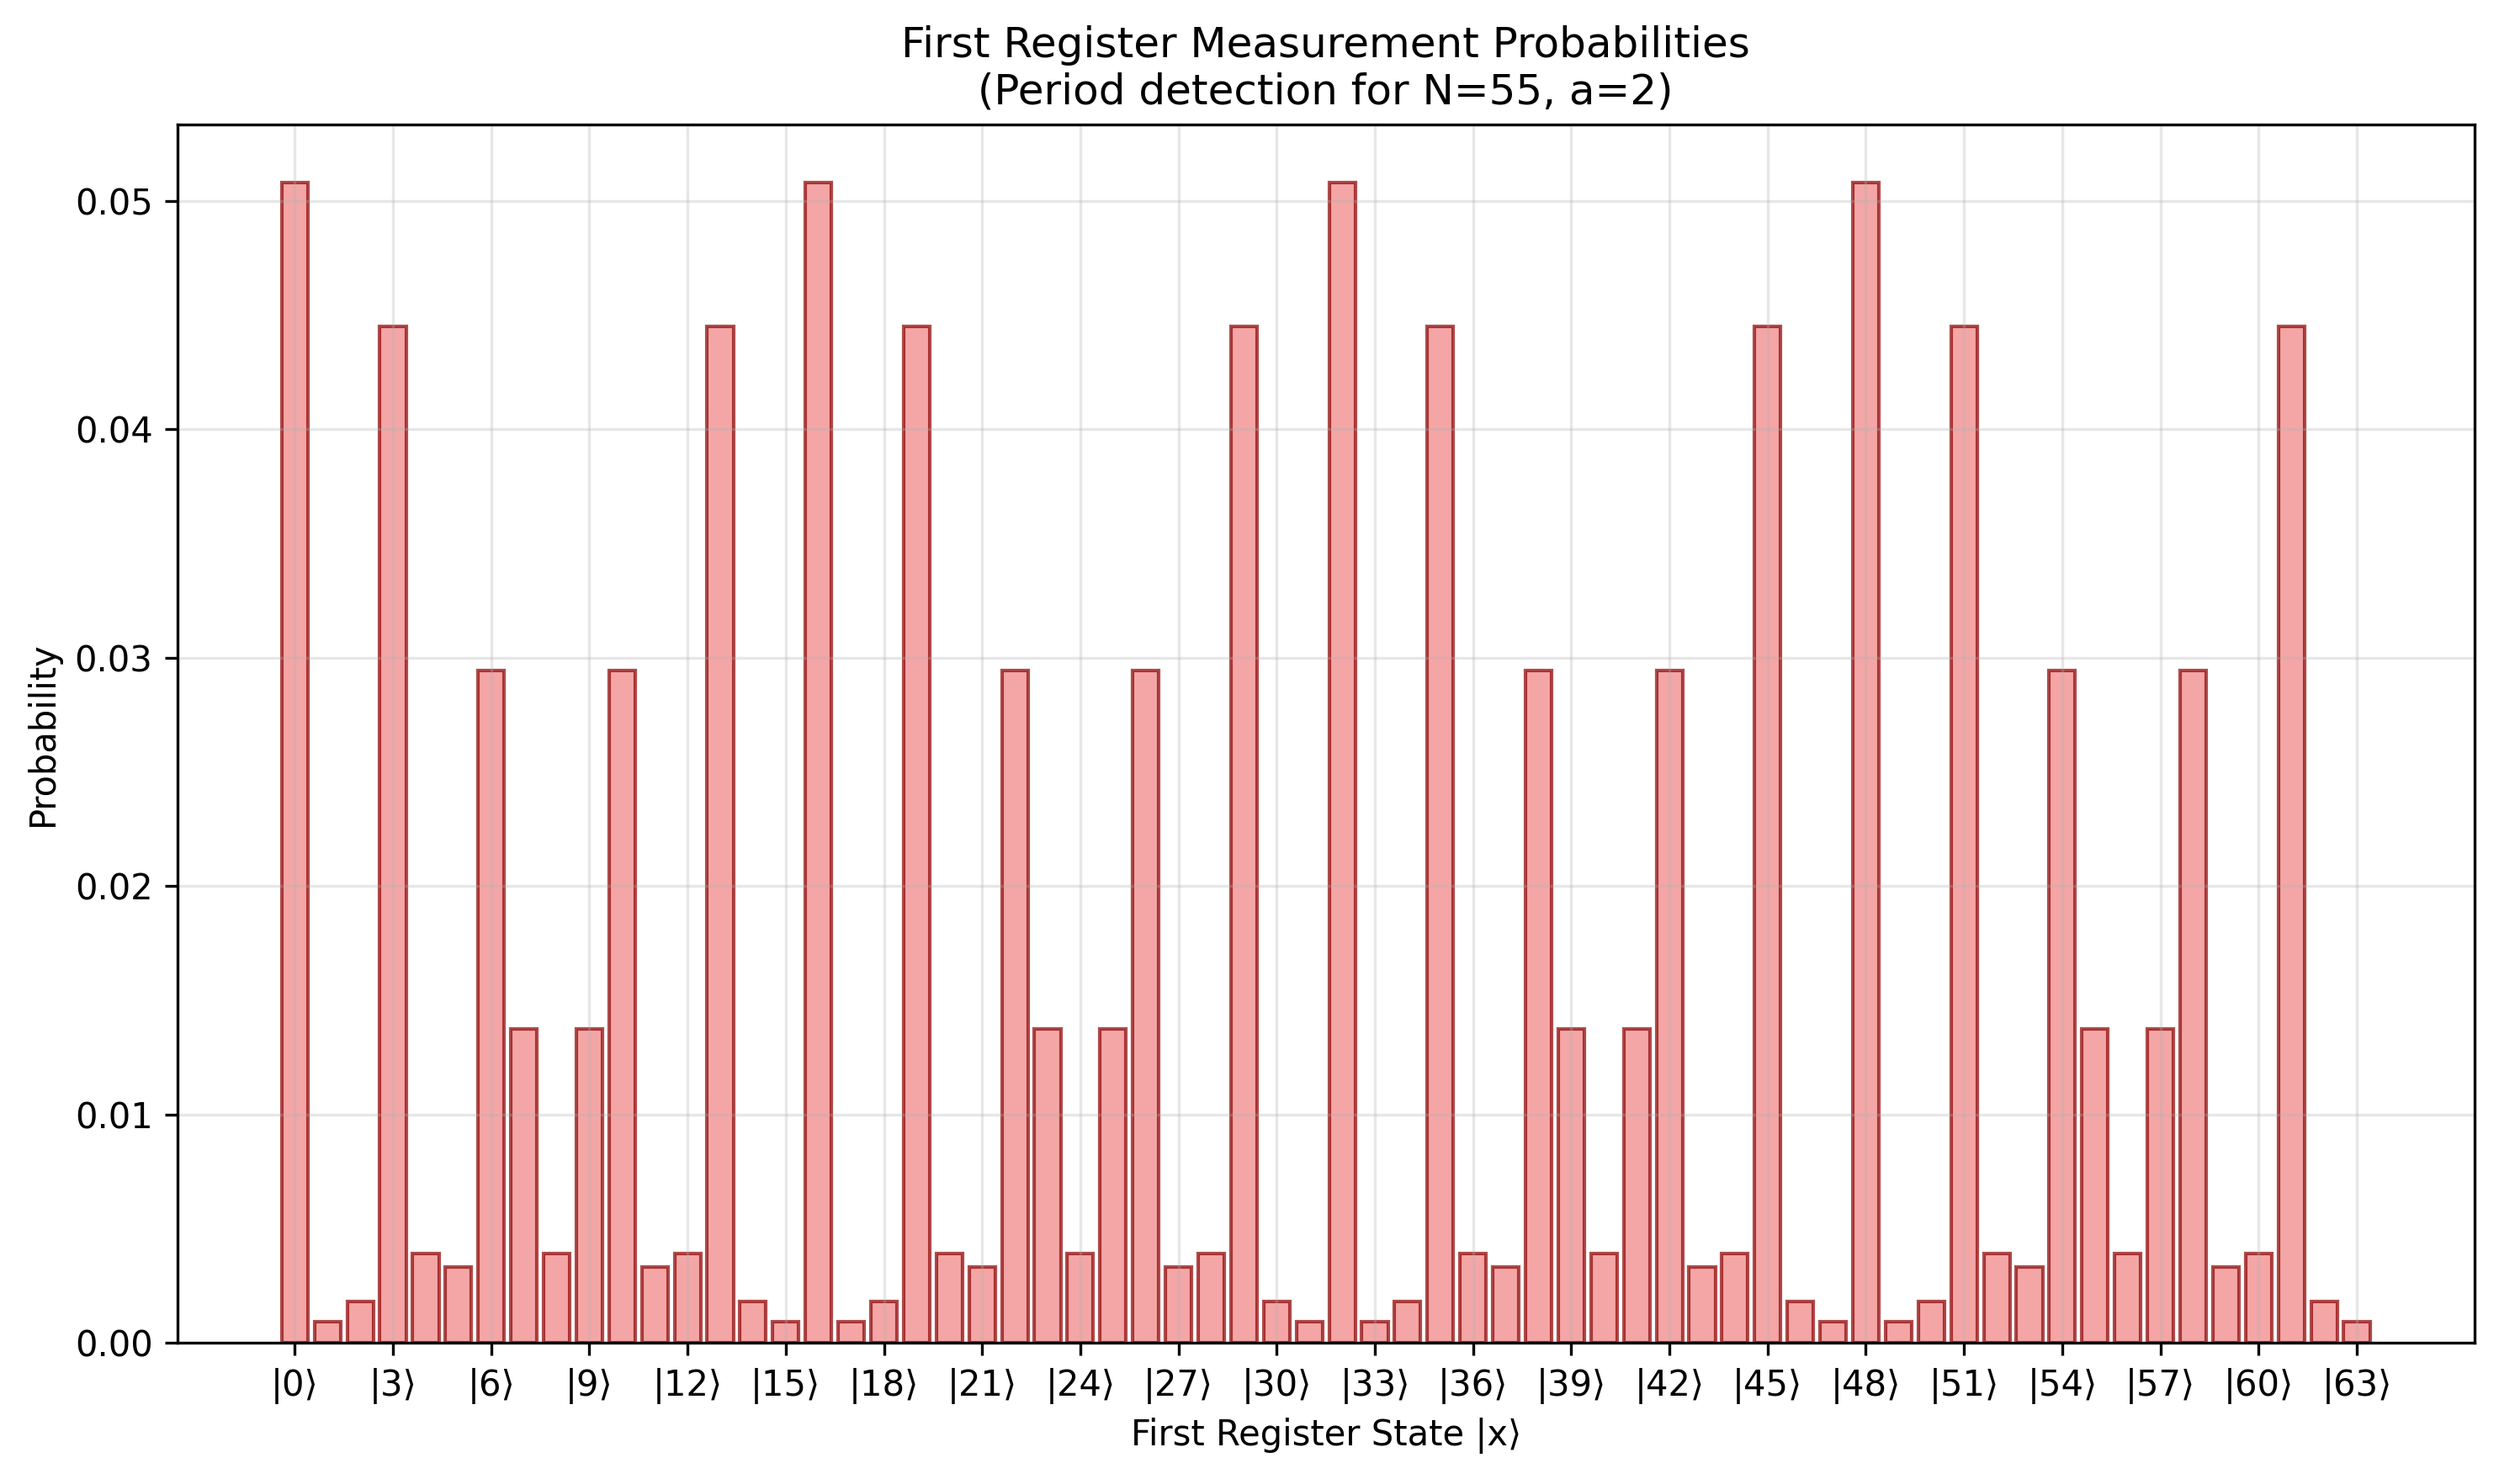
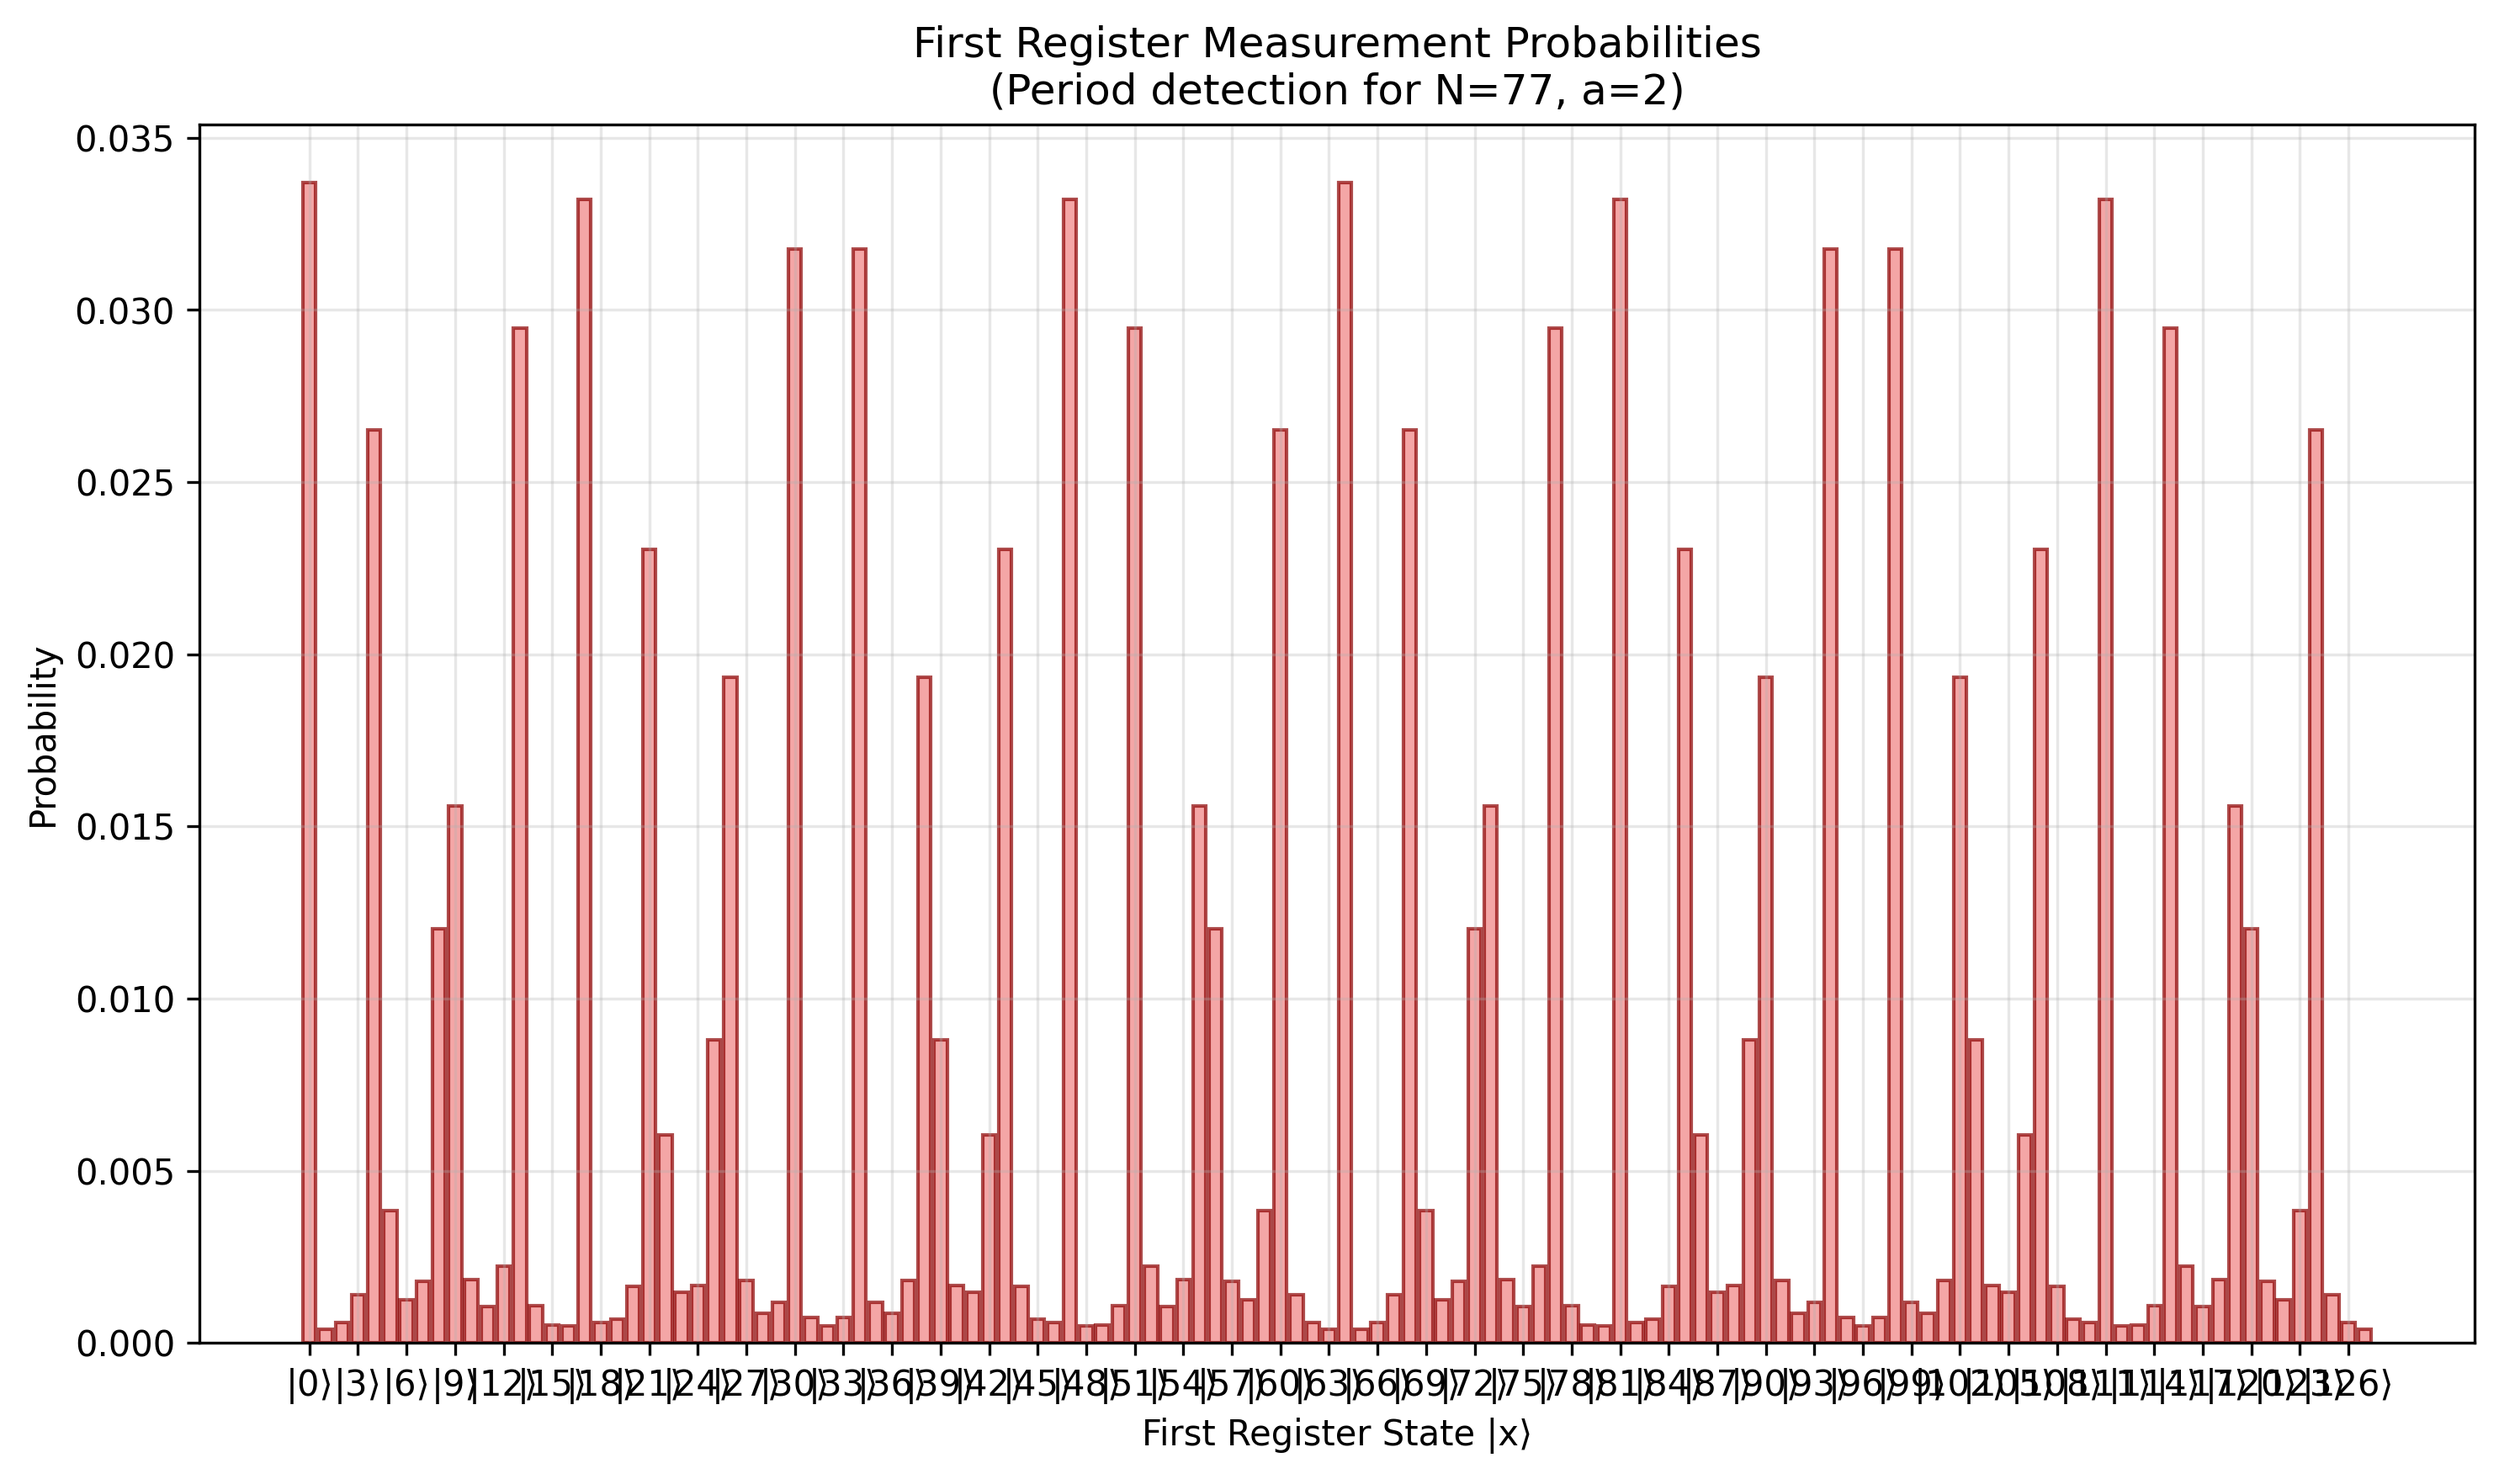
new codespace

Changed region(s): [[0.031, 0.0922, 0.9603, 0.9829], [0.3717, 0.0, 0.7125, 0.0922]]

diff --git a/examples/example_15.py b/examples/example_15.py
@@ -6,4 +6,4 @@ from main import shors_simulation
 
 if __name__ == "__main__":
     """Default example N = 15 with a = 7"""
-    shors_simulation(N=15, a=7, show_plots=True, sparse=True)
+    shors_simulation(N=77, a=2, show_plots=True, sparse=True)
